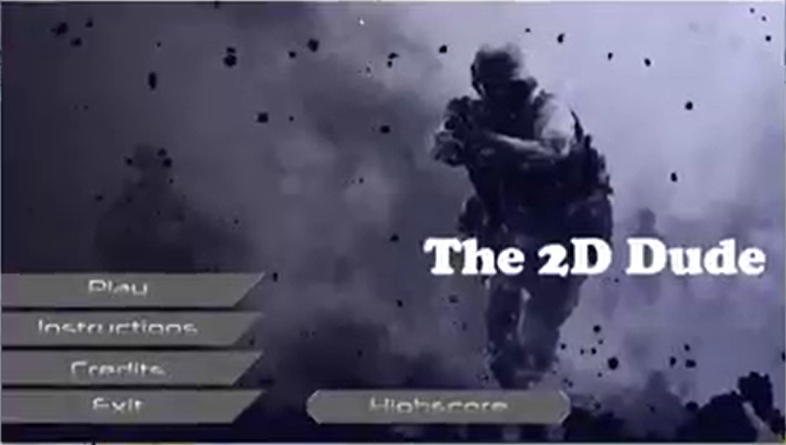
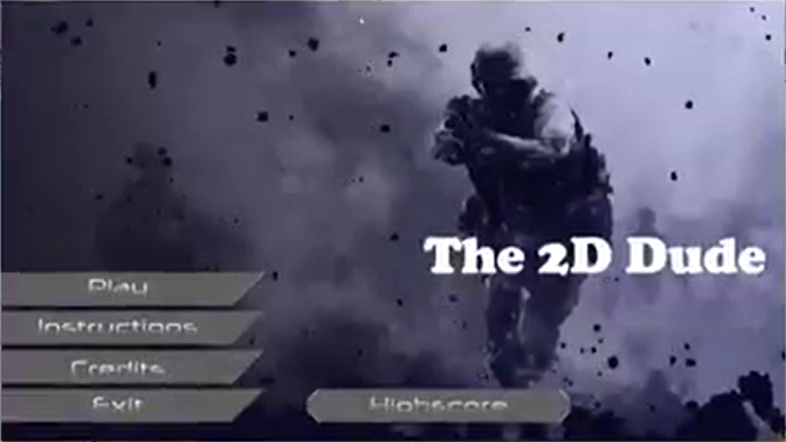
asd

diff --git a/index.html b/index.html
@@ -138,8 +138,8 @@
                         </a>
                     </div>
                     <div class="col-lg-4 col-sm-6">
-                        <a class="portfolio-box" href="img/4.png" title="The 2D Dude">
-                            <img class="img-fluid" src="img/4.png" />
+                        <a class="portfolio-box" href="img/4.jpg" title="The 2D Dude">
+                            <img class="img-fluid" src="img/4.jpg" />
                             <div class="portfolio-box-caption">
                                 <div class="project-category text-white-50">iGraphics Game</div>
                                 <div class="project-name">The 2D Dude</div>
